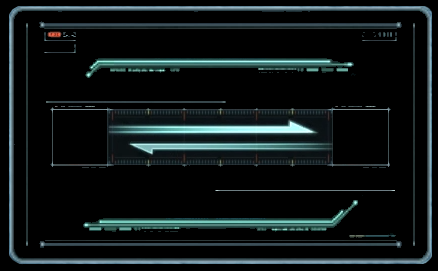
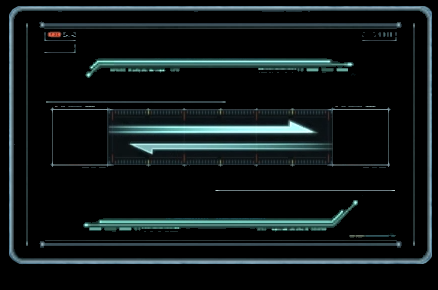
updated image generated from

diff --git a/index.html b/index.html
@@ -23,7 +23,7 @@
         <div class="helpme"></div>
         <div id="affinityHub">
             <div class="col-xs-12 col-md-12">
-                <canvas id="affinityCanvas" class="canvas-class" width="438" height="271">
+                <canvas id="affinityCanvas" class="canvas-class" width="438" height="290">
                     Your browser does not support the HTML5 canvas tag.
                 </canvas>
             </div>
@@ -122,7 +122,8 @@
         
         <div class="row">
             <div class="col-xs-12 col-md-12" style="padding:20px;">
-                Site by <a href="https://github.com/chriskwong17">chriskwong17</a> Any Feedbacks please send to my github
+                Site by <a href="https://github.com/chriskwong17">chriskwong17</a> Any Feedbacks please send it to my 
+                <a href="https://github.com/chriskwong17/xenobladexaffinity">github</a>
             </div>
         </div>
       </div>

diff --git a/scripts/affinity.js b/scripts/affinity.js
@@ -149,6 +149,10 @@ function generate(select1, select2, name1, name2, relationship1, relationship2){
     
     context.textAlign = "right";
     context.fillText(name2,390,183); 
+    
+    context.font = "12px " + "futuremedium";
+    context.textAlign = "right";
+    context.fillText("image generated from: https://chriskwong17.github.io/xenobladexaffinity/",430,280); 
 }
 
 
